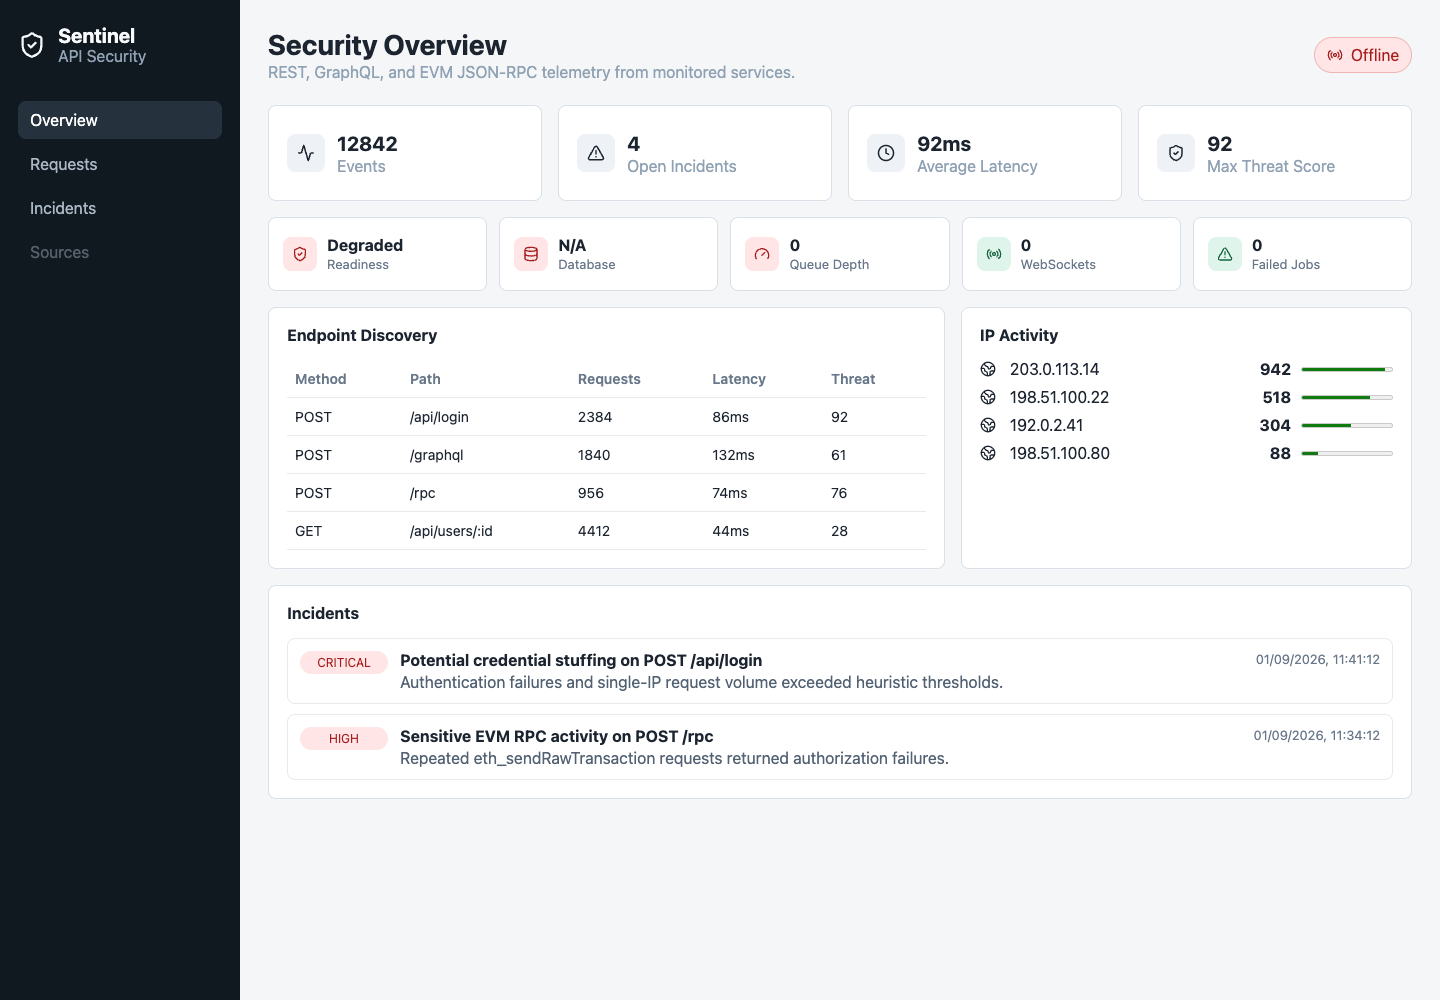
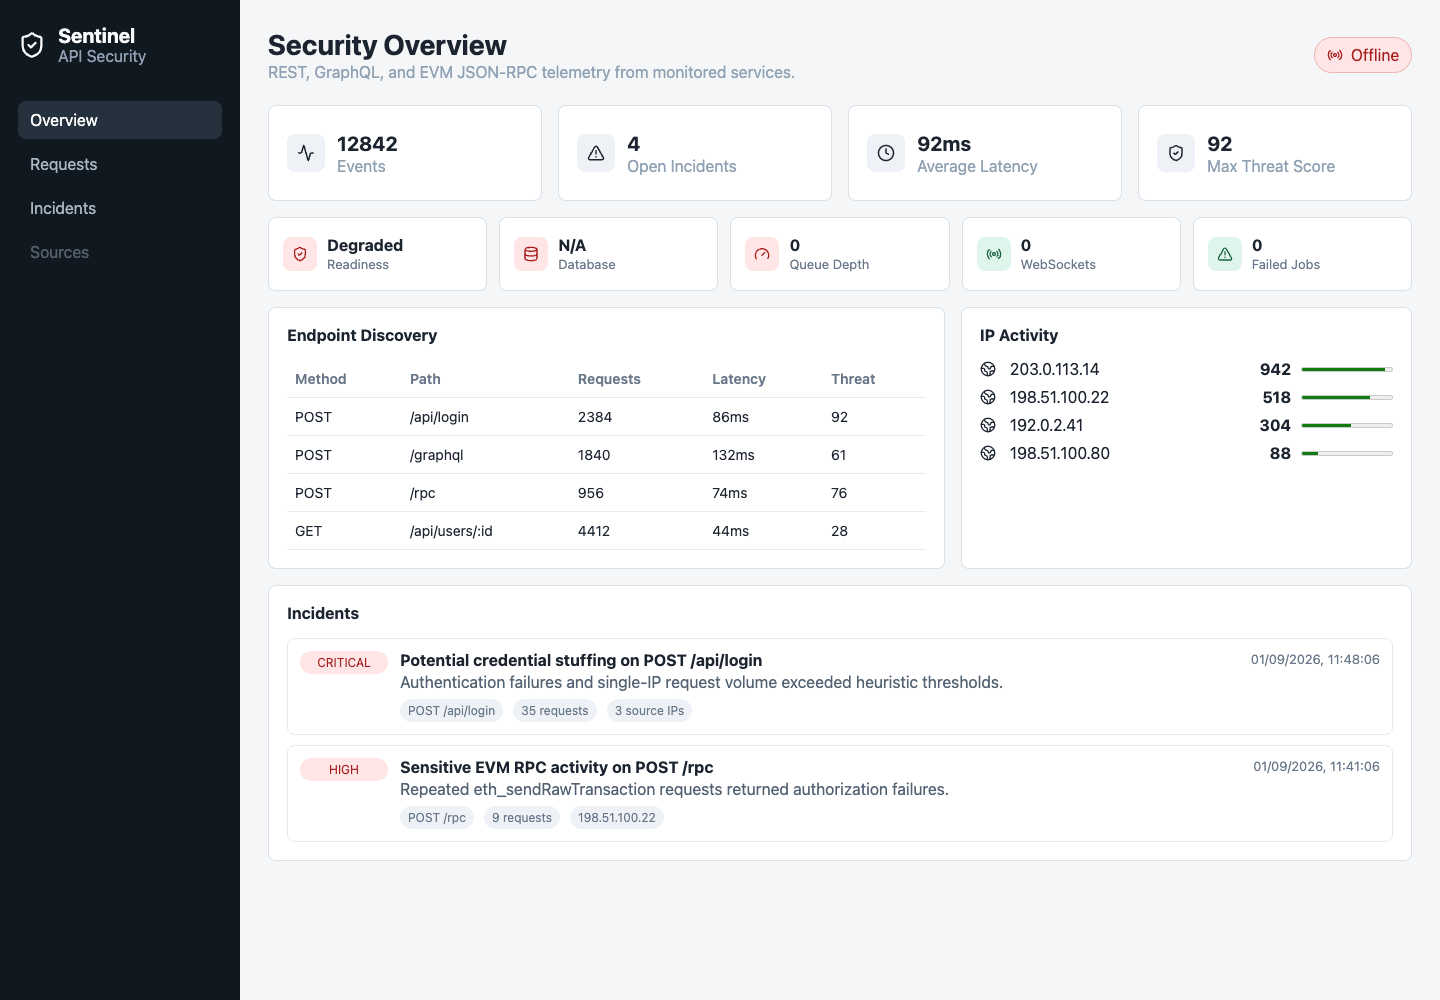
feat: group related security incidents

Changed region(s): [[0.1875, 0.682, 0.6562, 0.837], [0.875, 0.713, 0.9375, 0.775], [0.875, 0.651, 0.9688, 0.682]]

diff --git a/apps/worker/src/db.ts b/apps/worker/src/db.ts
@@ -1,6 +1,7 @@
 import pg from "pg";
 import { SentinelEvent, ThreatAssessment } from "@sentinel/shared";
 import { WorkerConfig } from "./config.js";
+import { fingerprintIncident } from "./incidents.js";
 
 const { Pool } = pg;
 
@@ -74,21 +75,82 @@ export async function createIncidentIfNeeded(
   event: SentinelEvent,
   assessment: ThreatAssessment
 ) {
-  if (assessment.score < 25) return;
+  const fingerprint = fingerprintIncident(event, assessment);
+  if (!fingerprint) return;
 
-  await pool.query(
-    `
-    insert into incidents (event_id, project_id, severity, title, description, signals, status)
-    values ($1, $2, $3, $4, $5, $6, 'open')
-    on conflict (event_id) do nothing
-    `,
-    [
-      event.id,
-      event.projectId,
-      assessment.severity,
-      `${assessment.severity.toUpperCase()} threat on ${event.request.method} ${event.request.path}`,
-      assessment.signals.map((signal) => signal.reason).join("; "),
-      assessment.signals
-    ]
-  );
+  const client = await pool.connect();
+
+  try {
+    await client.query("begin");
+
+    const existing = await client.query(
+      `
+      select id, attacker_ips
+      from incidents
+      where incident_key = $1 and status = 'open'
+      for update
+      `,
+      [fingerprint.key]
+    );
+
+    if (existing.rowCount && existing.rows[0]) {
+      const attackerIps = mergeIps(existing.rows[0].attacker_ips, fingerprint.attackerIp);
+      await client.query(
+        `
+        update incidents
+        set severity = $2,
+            description = $3,
+            signals = $4,
+            attacker_ips = $5,
+            request_count = request_count + 1,
+            last_seen_at = $6
+        where id = $1
+        `,
+        [
+          existing.rows[0].id,
+          assessment.severity,
+          fingerprint.description,
+          assessment.signals,
+          JSON.stringify(attackerIps),
+          event.timestamp
+        ]
+      );
+    } else {
+      await client.query(
+        `
+        insert into incidents (
+          event_id, incident_key, project_id, severity, title, description, signals,
+          affected_endpoint, attacker_ips, request_count, started_at, last_seen_at, status
+        )
+        values ($1, $2, $3, $4, $5, $6, $7, $8, $9, 1, $10, $10, 'open')
+        on conflict (incident_key) do nothing
+        `,
+        [
+          event.id,
+          fingerprint.key,
+          event.projectId,
+          assessment.severity,
+          fingerprint.title,
+          fingerprint.description,
+          assessment.signals,
+          fingerprint.affectedEndpoint,
+          JSON.stringify(mergeIps([], fingerprint.attackerIp)),
+          event.timestamp
+        ]
+      );
+    }
+
+    await client.query("commit");
+  } catch (error) {
+    await client.query("rollback");
+    throw error;
+  } finally {
+    client.release();
+  }
+}
+
+function mergeIps(existing: unknown, ip?: string) {
+  const values = Array.isArray(existing) ? existing.filter((value) => typeof value === "string") : [];
+  if (ip && !values.includes(ip)) values.push(ip);
+  return values;
 }

diff --git a/apps/dashboard/src/main.tsx b/apps/dashboard/src/main.tsx
@@ -37,10 +37,16 @@ type Overview = {
 
 type Incident = {
   id: string;
+  incident_key?: string;
   severity: string;
   title: string;
   description: string;
   status: string;
+  affected_endpoint?: string;
+  attacker_ips?: string[];
+  request_count?: number;
+  started_at?: string;
+  last_seen_at?: string;
   created_at: string;
 };
 
@@ -468,8 +474,13 @@ function IncidentPanel(props: { incidents: Incident[] }) {
             <div>
               <strong>{incident.title}</strong>
               <p>{incident.description}</p>
+              <div className="incident-meta">
+                <span>{incident.affected_endpoint ?? "Endpoint pending"}</span>
+                <span>{incident.request_count ?? 1} requests</span>
+                <span>{formatIps(incident.attacker_ips)}</span>
+              </div>
             </div>
-            <time>{new Date(incident.created_at).toLocaleString()}</time>
+            <time>{new Date(incident.last_seen_at ?? incident.created_at).toLocaleString()}</time>
           </article>
         ))}
       </div>
@@ -530,6 +541,12 @@ function getHeader(view: "overview" | "requests" | "incidents") {
   };
 }
 
+function formatIps(ips?: string[]) {
+  if (!ips || ips.length === 0) return "No source IP";
+  if (ips.length === 1) return ips[0];
+  return `${ips.length} source IPs`;
+}
+
 const demoOverview: Overview = {
   totals: {
     events: 12842,
@@ -580,7 +597,12 @@ const demoIncidents: Incident[] = [
     severity: "critical",
     title: "Potential credential stuffing on POST /api/login",
     description: "Authentication failures and single-IP request volume exceeded heuristic thresholds.",
+    affected_endpoint: "POST /api/login",
+    attacker_ips: ["203.0.113.14", "203.0.113.15", "203.0.113.16"],
+    request_count: 35,
     status: "open",
+    started_at: new Date(Date.now() - 1000 * 60 * 8).toISOString(),
+    last_seen_at: new Date().toISOString(),
     created_at: new Date().toISOString()
   },
   {
@@ -588,7 +610,12 @@ const demoIncidents: Incident[] = [
     severity: "high",
     title: "Sensitive EVM RPC activity on POST /rpc",
     description: "Repeated eth_sendRawTransaction requests returned authorization failures.",
+    affected_endpoint: "POST /rpc",
+    attacker_ips: ["198.51.100.22"],
+    request_count: 9,
     status: "open",
+    started_at: new Date(Date.now() - 1000 * 60 * 12).toISOString(),
+    last_seen_at: new Date(Date.now() - 1000 * 60 * 7).toISOString(),
     created_at: new Date(Date.now() - 1000 * 60 * 7).toISOString()
   }
 ];

diff --git a/apps/worker/src/incidents.ts b/apps/worker/src/incidents.ts
@@ -1,0 +1,57 @@
+import { SentinelEvent, ThreatAssessment } from "@sentinel/shared";
+
+export type IncidentFingerprint = {
+  key: string;
+  title: string;
+  description: string;
+  affectedEndpoint: string;
+  attackerIp?: string;
+};
+
+export function fingerprintIncident(
+  event: SentinelEvent,
+  assessment: ThreatAssessment
+): IncidentFingerprint | null {
+  if (assessment.score < 25) return null;
+
+  const endpoint = `${event.request.method} ${event.request.route ?? event.request.path}`;
+  const signalNames = new Set(assessment.signals.map((signal) => signal.name));
+
+  if (signalNames.has("auth_failure") && event.request.ip) {
+    return {
+      key: `${event.projectId}:credential_stuffing:${endpoint}`,
+      title: `Potential credential stuffing on ${endpoint}`,
+      description: "Repeated authentication failures were observed against the same endpoint.",
+      affectedEndpoint: endpoint,
+      attackerIp: event.request.ip
+    };
+  }
+
+  if (signalNames.has("rate_anomaly") && event.request.ip) {
+    return {
+      key: `${event.projectId}:request_spike:${endpoint}`,
+      title: `Request spike on ${endpoint}`,
+      description: "Request volume exceeded the heuristic threshold for a single source.",
+      affectedEndpoint: endpoint,
+      attackerIp: event.request.ip
+    };
+  }
+
+  if (signalNames.has("sensitive_rpc")) {
+    return {
+      key: `${event.projectId}:sensitive_rpc:${event.evmRpc?.method ?? endpoint}`,
+      title: `Sensitive EVM RPC activity on ${endpoint}`,
+      description: "Sensitive JSON-RPC methods were observed and grouped for review.",
+      affectedEndpoint: endpoint,
+      attackerIp: event.request.ip
+    };
+  }
+
+  return {
+    key: `${event.projectId}:heuristic_risk:${endpoint}`,
+    title: `Elevated API risk on ${endpoint}`,
+    description: assessment.signals.map((signal) => signal.reason).join("; "),
+    affectedEndpoint: endpoint,
+    attackerIp: event.request.ip
+  };
+}

diff --git a/apps/worker/src/incidents.test.ts b/apps/worker/src/incidents.test.ts
@@ -1,0 +1,42 @@
+import { describe, expect, it } from "vitest";
+import { SentinelEvent } from "@sentinel/shared";
+import { fingerprintIncident } from "./incidents.js";
+
+const baseEvent: SentinelEvent = {
+  id: "event-1",
+  projectId: "demo",
+  serviceName: "api",
+  environment: "test",
+  timestamp: new Date().toISOString(),
+  kind: "rest",
+  request: {
+    method: "POST",
+    path: "/api/login",
+    route: "/api/login",
+    ip: "203.0.113.14",
+    headers: {},
+    query: {},
+    auth: { present: true, failed: true }
+  },
+  response: {
+    statusCode: 401,
+    latencyMs: 40
+  }
+};
+
+describe("incident fingerprinting", () => {
+  it("groups auth failures by project and endpoint", () => {
+    const fingerprint = fingerprintIncident(baseEvent, {
+      score: 54,
+      severity: "high",
+      signals: [{ name: "auth_failure", weight: 24, reason: "Authentication failed" }]
+    });
+
+    expect(fingerprint?.key).toBe("demo:credential_stuffing:POST /api/login");
+    expect(fingerprint?.affectedEndpoint).toBe("POST /api/login");
+  });
+
+  it("ignores low risk events", () => {
+    expect(fingerprintIncident(baseEvent, { score: 10, severity: "low", signals: [] })).toBeNull();
+  });
+});

diff --git a/apps/api/src/db.ts b/apps/api/src/db.ts
@@ -42,9 +42,10 @@ export async function getOverview(pool: pg.Pool) {
 
 export async function getIncidents(pool: pg.Pool) {
   const result = await pool.query(`
-    select id, event_id, severity, title, description, signals, status, created_at
+    select id, event_id, incident_key, severity, title, description, signals, status,
+           affected_endpoint, attacker_ips, request_count, started_at, last_seen_at, created_at
     from incidents
-    order by created_at desc
+    order by last_seen_at desc, created_at desc
     limit 50
   `);
 

diff --git a/apps/dashboard/src/styles.css b/apps/dashboard/src/styles.css
@@ -347,6 +347,21 @@ meter {
   margin-top: 4px;
 }
 
+.incident-meta {
+  color: #687789;
+  display: flex;
+  flex-wrap: wrap;
+  gap: 10px;
+  margin-top: 8px;
+}
+
+.incident-meta span {
+  background: #eef2f6;
+  border-radius: 999px;
+  font-size: 12px;
+  padding: 4px 8px;
+}
+
 .severity {
   border-radius: 999px;
   font-size: 12px;

diff --git a/CHANGELOG.md b/CHANGELOG.md
@@ -18,4 +18,5 @@ Initial alpha release.
 - Added demo traffic seeding script.
 - Added health, readiness, runtime metrics, request IDs, and dashboard system status widgets.
 - Added request explorer API and dashboard view with filters.
+- Added grouped incident fingerprints with affected endpoints, source IPs, request counts, and last seen timestamps.
 - Added CI, issue templates, contribution guide, security policy, roadmap, and dashboard screenshot.

diff --git a/README.md b/README.md
@@ -81,6 +81,7 @@ Most teams can see application logs, but they cannot easily answer security-focu
 - Which GraphQL operations are slow or failing?
 - Which EVM JSON-RPC methods are risky?
 - Which requests should become incidents?
+- Which related security signals belong to the same incident?
 
 Sentinel is designed to make those answers visible in a self-hosted stack developers can understand and extend.
 

diff --git a/docs/roadmap.md b/docs/roadmap.md
@@ -11,6 +11,7 @@
 - Docker Compose self-hosting
 - Health, readiness, and runtime metrics
 - Request explorer with method, status, IP, path, and threat filters
+- Grouped security incidents with affected endpoint, attacker IPs, duration, and request count
 
 ## v0.2 Product Hardening
 
